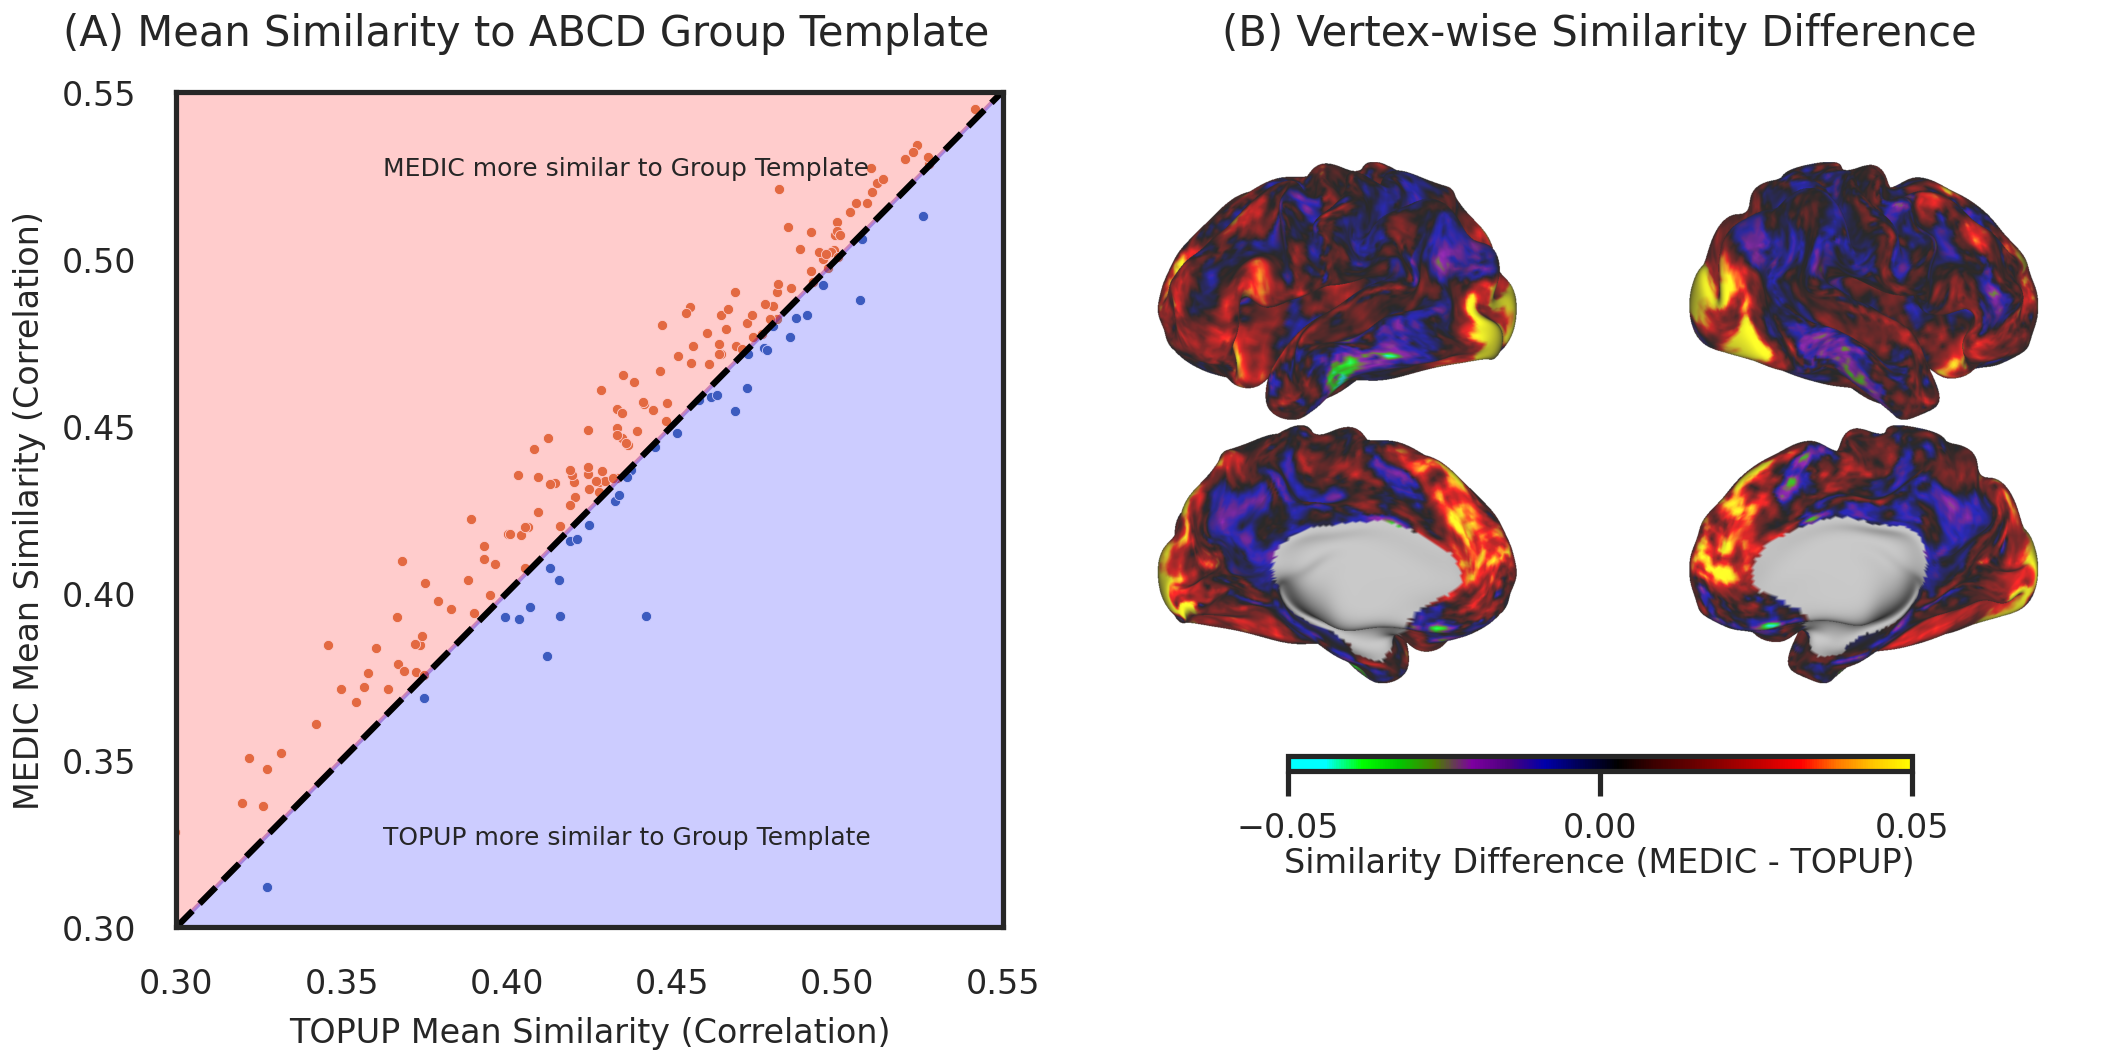
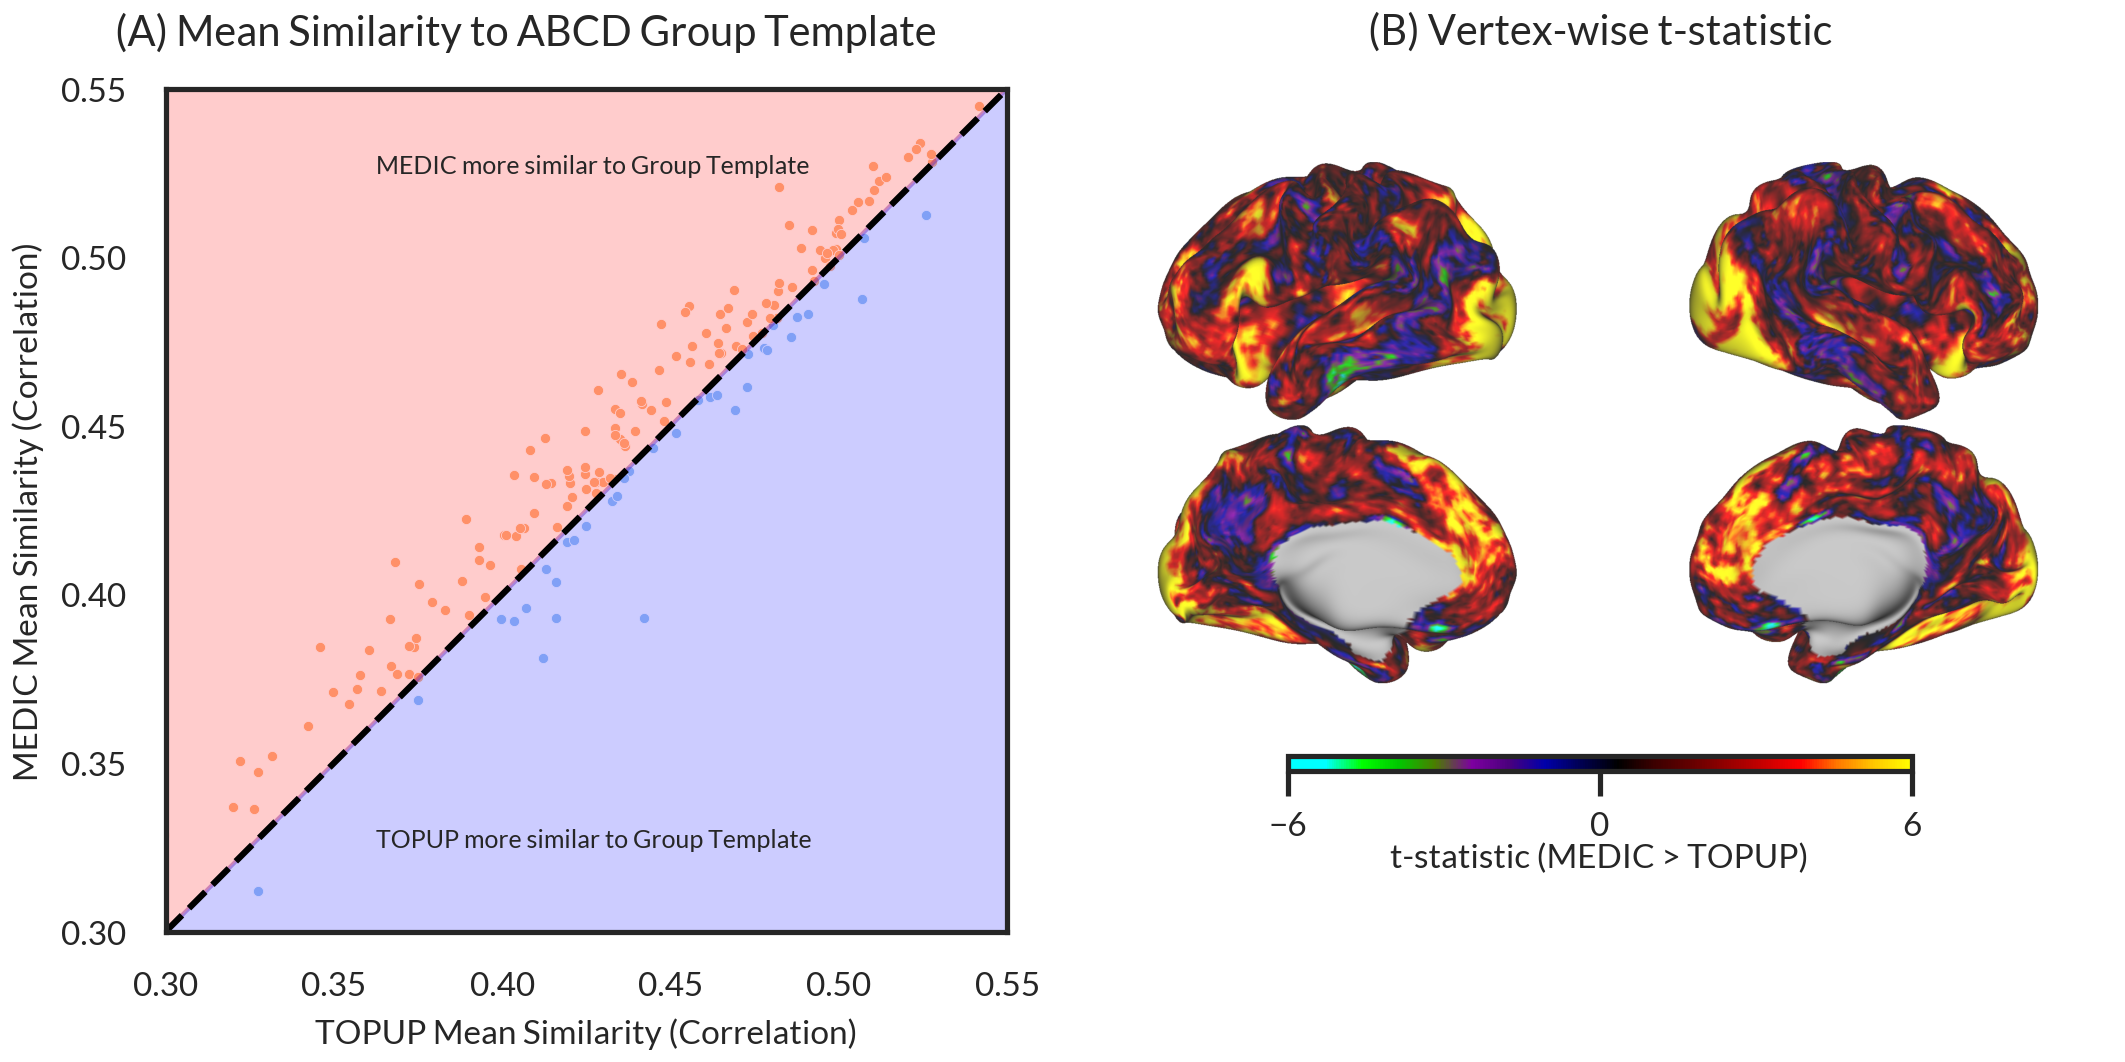
:sparkles: update

diff --git a/MEDIC3/medic_presentation.html b/MEDIC3/medic_presentation.html
@@ -417,6 +417,15 @@ alt="MSC: PEpolar (TOPUP) corrected" />
 corrected</figcaption>
 </figure>
 </div>
+</div>
+</section>
+
+<section
+id="medic-correction-has-greater-correspondence-to-cerebellar-anatomy-than-pepolar-correction"
+class="title-slide slide level2">
+<h2>MEDIC correction has greater correspondence to cerebellar anatomy
+than PEpolar correction</h2>
+<div class="r-stack">
 <div class="element: fragment current-visible">
 <figure>
 <img data-src="imgs/anatomical_align/washu2_medic.png"
@@ -491,24 +500,19 @@ alt="Comparison of Field Map from PEpolar EPI (TOPUP), FLASH (ROMEO), and ME-EPI
 </div>
 </section></section>
 <section
-id="medic-correction-produces-greater-correspondence-to-anatomy-in-both-global-and-local-alignment-metrics."
+id="medic-correction-has-greater-correspondence-to-anatomy-in-globallocal-alignment."
 class="title-slide slide level2">
-<h2>MEDIC correction produces greater correspondence to anatomy in both
-global and local alignment metrics.</h2>
+<h2>MEDIC correction has greater correspondence to anatomy in
+global/local alignment.</h2>
+<div class="r-stack">
+<div class="element: fragment current-visible">
 <figure>
 <img data-src="imgs/alignment_metrics.png"
 alt="Global and local anatomical alignment metrics" />
 <figcaption aria-hidden="true">Global and local anatomical alignment
 metrics</figcaption>
 </figure>
-</section>
-
-<section
-id="medic-correction-produces-greater-correspondence-to-anatomy-in-both-global-and-local-alignment-metrics.-1"
-class="title-slide slide level2">
-<h2>MEDIC correction produces greater correspondence to anatomy in both
-global and local alignment metrics.</h2>
-<div class="r-stack">
+</div>
 <div class="element: fragment current-visible">
 <p>Global alignment metrics (whole brain) for ASD/ADHD Dataset. ✅
 indicates best metric that was statistically significant (p &lt; 0.05).
@@ -589,6 +593,16 @@ data.</p>
 </table>
 </div>
 <div class="element: fragment current-visible">
+<figure>
+<img data-src="imgs/spotlight_comparison.png"
+alt="Local spotlight t-statistic map. Spotlight analysis was performed by computing the average squared local correlation between the functional and anatomical images across all voxels within a 3 voxel radius sphere." />
+<figcaption aria-hidden="true">Local spotlight t-statistic map.
+Spotlight analysis was performed by computing the average squared local
+correlation between the functional and anatomical images across all
+voxels within a 3 voxel radius sphere.</figcaption>
+</figure>
+</div>
+<div class="element: fragment current-visible">
 <p>Local alignment metrics (whole brain) for ASD/ADHD Dataset. ✅
 indicates best metric that was statistically significant (p &lt; 0.05).
 Spotlight analysis was performed by computing the average squared local
@@ -637,10 +651,10 @@ voxels within a 3 voxel radius sphere.</p>
 <p>Segmentation based metrics for ASD/ADHD Dataset. ✅ indicates best
 metric that was statistically significant (p &lt; 0.05). Each metric
 examined the separability of tissue types using anatomical segmentation
-labels applied to functional data. Separability was measured by
-thresholding the functional data along the tissue boundary, comparing
-the classification against the anatomical segmenation, and computing the
-AUC of the resulting ROC curve.</p>
+labels applied to functional data. Separability was measured by treating
+anatomical segmentation labels as ground truth and assessing the
+performance of binary classification for each tissue boundary. Results
+are reported as the AUC of the resulting ROC curve.</p>
 <table>
 <colgroup>
 <col style="width: 22%" />
@@ -731,9 +745,9 @@ it is correcting.
 
 </section>
 
-<section id="medic-corrects-repiration-effects-in-motion-parameters."
+<section id="medic-corrects-respiration-effects-in-motion-parameters."
 class="title-slide slide level2">
-<h2>MEDIC corrects repiration effects in motion parameters.</h2>
+<h2>MEDIC corrects respiration effects in motion parameters.</h2>
 <div class="r-stack">
 <div class="element: fragment current-visible">
 <figure>

diff --git a/MEDIC3/medic_presentation.md b/MEDIC3/medic_presentation.md
@@ -227,6 +227,11 @@ $$y_{undistorted} = y_{distorted} - \Delta r(x, y_{distorted})$$
 
 ![MSC: PEpolar (TOPUP) corrected](imgs/anatomical_align/MSCHD02_topup.png)
 :::
+
+</div>
+
+## MEDIC correction has greater correspondence to cerebellar anatomy than PEpolar correction
+<div class="r-stack">
 :::{.element: class="fragment current-visible"}
 
 ![ASD/ADHD: MEDIC corrected](imgs/anatomical_align/washu2_medic.png)
@@ -268,13 +273,13 @@ Comparison of ME-EPI data to GRE PEpolar field map shows additional off-resonanc
 :::
 </div>
 
-## MEDIC correction produces greater correspondence to anatomy in both global and local alignment metrics.
-
-![Global and local anatomical alignment metrics](imgs/alignment_metrics.png)
-
-## MEDIC correction produces greater correspondence to anatomy in both global and local alignment metrics.
+## MEDIC correction has greater correspondence to anatomy in global/local alignment.
 
 <div class="r-stack">
+::: {.element: class="fragment current-visible"}
+![Global and local anatomical alignment metrics](imgs/alignment_metrics.png)
+
+:::
 :::{.element: class="fragment current-visible"}
 
 Global alignment metrics (whole brain) for ASD/ADHD Dataset. ✅ indicates best metric that was
@@ -295,6 +300,13 @@ functional and anatomical data.
 :::
 :::{.element: class="fragment current-visible"}
 
+![Local spotlight t-statistic map. Spotlight analysis was performed by computing the average squared
+local correlation between the functional and anatomical images across all voxels within a 3
+voxel radius sphere.](imgs/spotlight_comparison.png)
+
+:::
+:::{.element: class="fragment current-visible"}
+
 Local alignment metrics (whole brain) for ASD/ADHD Dataset. ✅ indicates best metric that was
 statistically significant (p < 0.05). Spotlight analysis was performed by computing the average squared
 local correlation between the functional and anatomical images across all voxels within a 3 voxel radius sphere.
@@ -310,9 +322,9 @@ local correlation between the functional and anatomical images across all voxels
 Segmentation based metrics for ASD/ADHD Dataset. ✅ indicates best metric that was
 statistically significant (p < 0.05). Each metric examined the separability of tissue
 types using anatomical segmentation labels applied to functional data. Separability was
-measured by thresholding the functional data along the tissue boundary, comparing the
-classification against the anatomical segmenation, and computing the AUC of the resulting
-ROC curve.
+measured by treating anatomical segmentation labels as ground truth and assessing the
+performance of binary classification for each tissue boundary. Results are reported as the
+AUC of the resulting ROC curve.
 
 |     Metric      |        MEDIC        |     TOPUP     | t-stat | p-value |  df  |
 |:---------------:|:-------------------:|:-------------:|:------:|:-------:|:----:|
@@ -353,7 +365,7 @@ In ASD/ADHD dataset, tSNR was not significantly different between MEDIC and TOPU
 
 ## Extras
 
-## MEDIC corrects repiration effects in motion parameters.
+## MEDIC corrects respiration effects in motion parameters.
 
 <div class="r-stack">
 :::{.element: class="fragment current-visible"}
